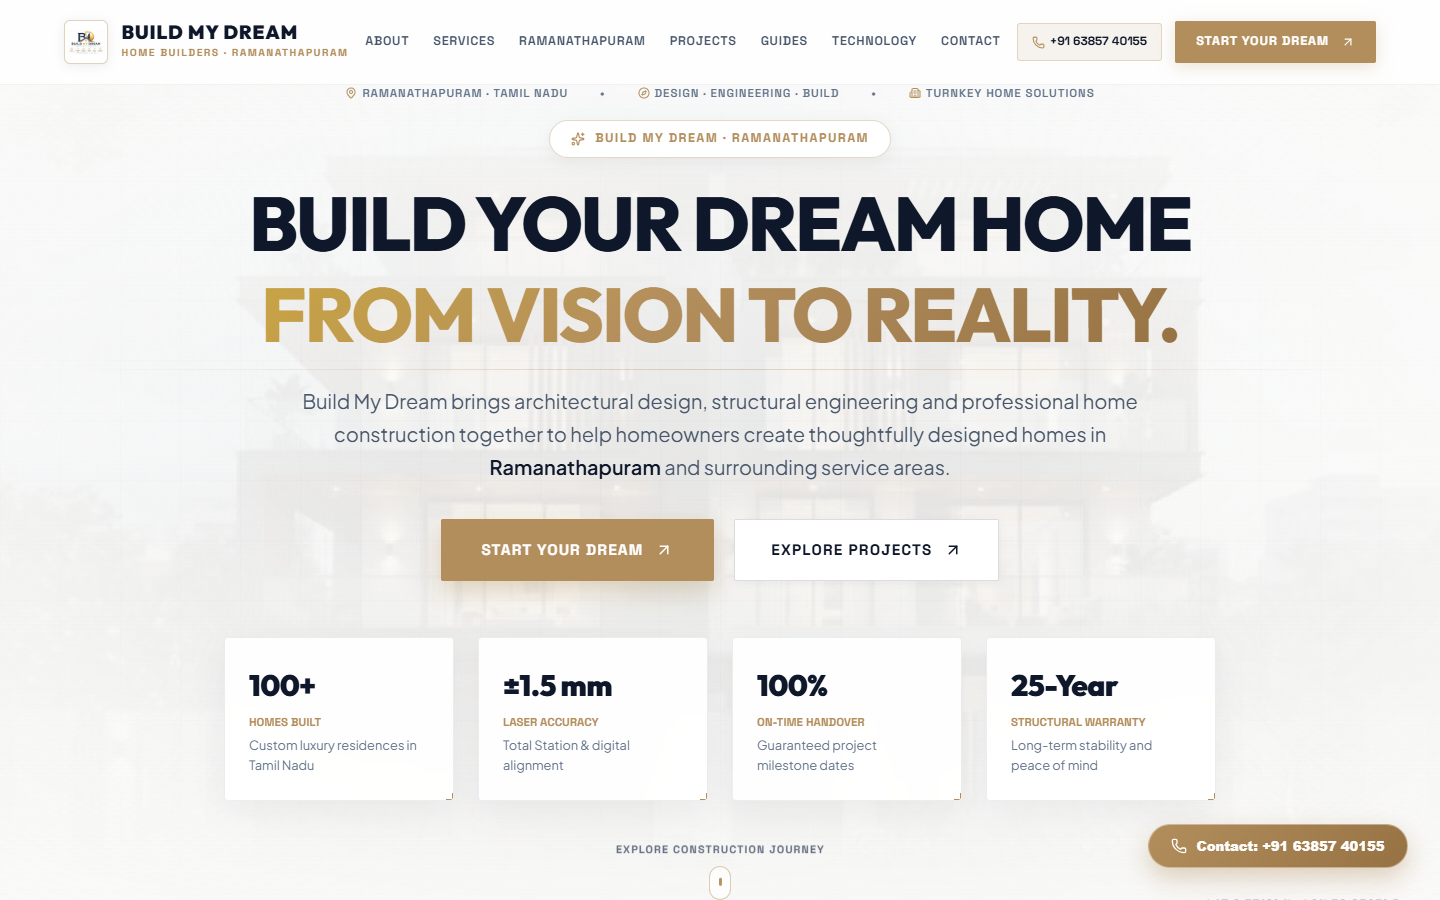
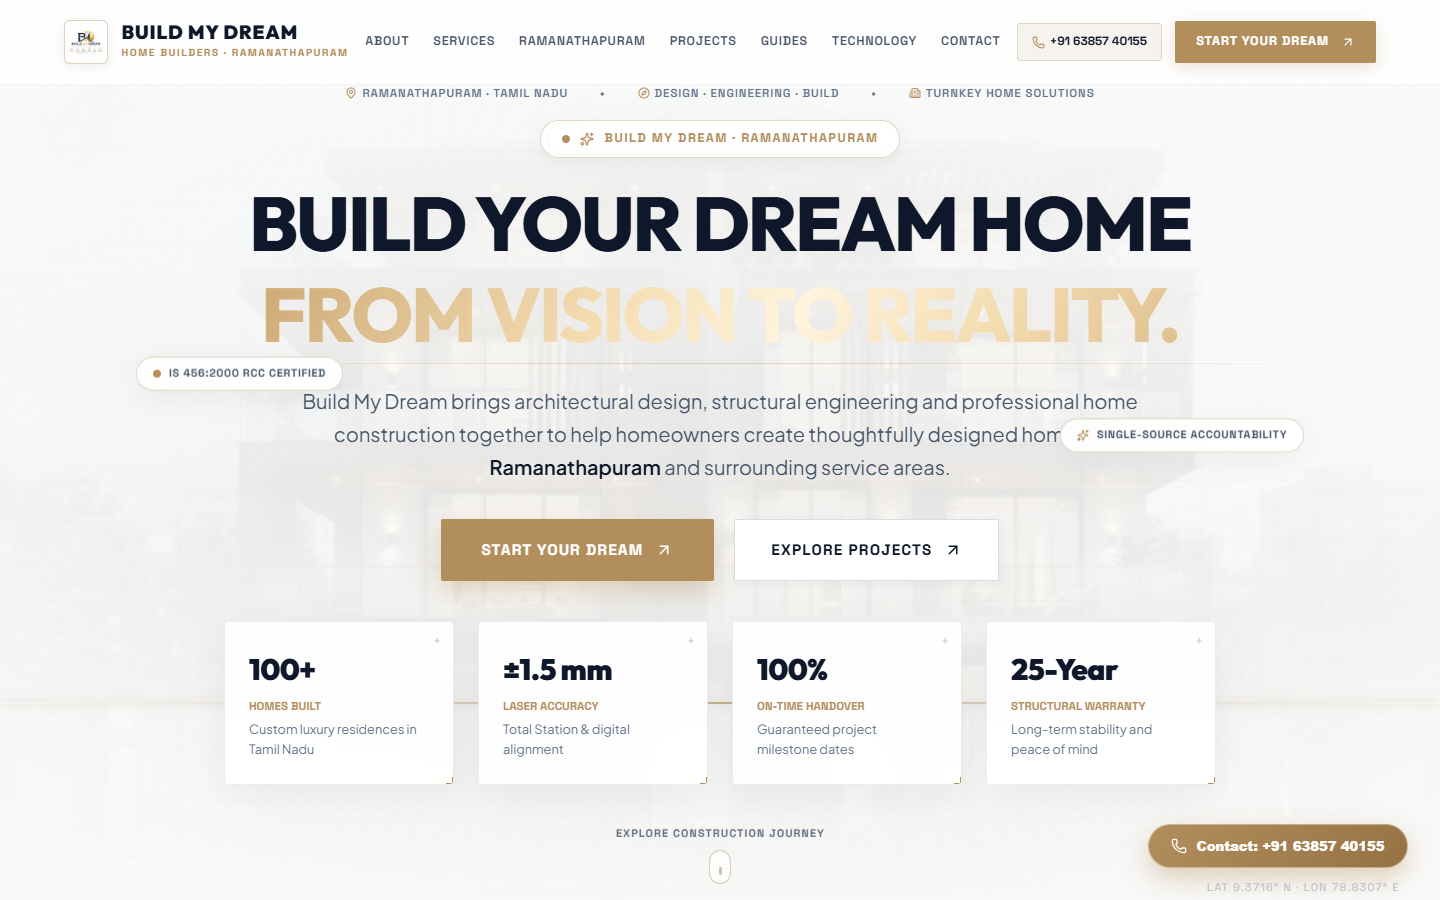
feat(hero): add active laser scanner, liquid gold luster, floating badges, and button sheen

diff --git a/src/components/hero/HeroCinematic.jsx b/src/components/hero/HeroCinematic.jsx
@@ -262,9 +262,13 @@ export function HeroCinematic() {
       }}
       className="bg-blueprint-grid"
     >
-      {/* Background Architectural Image with Silky Parallax */}
+      {/* Active Architectural LiDAR / Laser Scanning Beam */}
+      <div className="hero-laser-scanner" />
+
+      {/* Background Architectural Image with Silky Parallax & Ambient Drift */}
       <div
         ref={bgImageRef}
+        className="hero-bg-ambient"
         style={{
           position: 'absolute',
           inset: '-30px',
@@ -351,6 +355,59 @@ export function HeroCinematic() {
 
       {/* Main Hero Editorial Content */}
       <div className="container" style={{ position: 'relative', zIndex: 10, textAlign: 'center', maxWidth: '1120px' }}>
+        {/* Left Floating Architectural Badge (Desktop Only) */}
+        <div
+          className="desktop-only hero-floating-pill"
+          style={{
+            position: 'absolute',
+            left: '-3.5rem',
+            top: '30%',
+            background: 'rgba(255, 255, 255, 0.94)',
+            border: '1px solid rgba(179, 142, 93, 0.35)',
+            borderRadius: '24px',
+            padding: '0.45rem 1rem',
+            display: 'flex',
+            alignItems: 'center',
+            gap: '8px',
+            boxShadow: '0 8px 24px rgba(15, 23, 42, 0.05)',
+            pointerEvents: 'none',
+            zIndex: 8,
+            backdropFilter: 'blur(10px)'
+          }}
+        >
+          <div className="hero-beacon-dot" />
+          <span style={{ fontFamily: 'var(--font-mono)', fontSize: '0.68rem', color: '#475569', fontWeight: 700, letterSpacing: '0.06em' }}>
+            IS 456:2000 RCC CERTIFIED
+          </span>
+        </div>
+
+        {/* Right Floating Architectural Badge (Desktop Only) */}
+        <div
+          className="desktop-only hero-floating-pill"
+          style={{
+            position: 'absolute',
+            right: '-3.5rem',
+            top: '40%',
+            animationDelay: '-2.2s',
+            background: 'rgba(255, 255, 255, 0.94)',
+            border: '1px solid rgba(179, 142, 93, 0.35)',
+            borderRadius: '24px',
+            padding: '0.45rem 1rem',
+            display: 'flex',
+            alignItems: 'center',
+            gap: '8px',
+            boxShadow: '0 8px 24px rgba(15, 23, 42, 0.05)',
+            pointerEvents: 'none',
+            zIndex: 8,
+            backdropFilter: 'blur(10px)'
+          }}
+        >
+          <Sparkles size={12} className="text-gold" />
+          <span style={{ fontFamily: 'var(--font-mono)', fontSize: '0.68rem', color: '#475569', fontWeight: 700, letterSpacing: '0.06em' }}>
+            SINGLE-SOURCE ACCOUNTABILITY
+          </span>
+        </div>
+
         {/* Eyebrow Pill Badge */}
         <div
           ref={pillBadgeRef}
@@ -368,6 +425,7 @@ export function HeroCinematic() {
             willChange: 'transform, opacity'
           }}
         >
+          <div className="hero-beacon-dot" />
           <Sparkles size={14} className="text-gold" />
           <span style={{ fontFamily: 'var(--font-mono)', fontSize: '0.78rem', letterSpacing: '0.12em', color: 'var(--accent-gold)', textTransform: 'uppercase', fontWeight: 800 }}>
             BUILD MY DREAM · RAMANATHAPURAM
@@ -422,13 +480,13 @@ export function HeroCinematic() {
             gap: '1.25rem',
             justifyContent: 'center',
             flexWrap: 'wrap',
-            marginBottom: '3.5rem',
+            marginBottom: '2.5rem',
             willChange: 'transform, opacity'
           }}
         >
           <Link
             to="/contact"
-            className="btn-primary"
+            className="btn-primary btn-primary-sheen"
             style={{
               padding: '1.1rem 2.5rem',
               fontSize: '0.95rem',
@@ -472,8 +530,9 @@ export function HeroCinematic() {
           <div
             ref={(el) => (cardsRef.current[0] = el)}
             className="glass-card hud-border hero-metric-card"
-            style={{ padding: '1.5rem', borderRadius: '4px', background: 'rgba(255, 255, 255, 0.96)' }}
+            style={{ padding: '1.5rem', borderRadius: '4px', background: 'rgba(255, 255, 255, 0.96)', position: 'relative' }}
           >
+            <div style={{ position: 'absolute', top: '10px', right: '12px', fontFamily: 'var(--font-mono)', fontSize: '0.75rem', color: 'rgba(179, 142, 93, 0.4)', userSelect: 'none', fontWeight: 700 }}>+</div>
             <div
               ref={stat1Ref}
               style={{ fontFamily: 'var(--font-display)', fontSize: '1.85rem', fontWeight: 900, color: '#0F172A', letterSpacing: '-0.02em' }}
@@ -492,8 +551,9 @@ export function HeroCinematic() {
           <div
             ref={(el) => (cardsRef.current[1] = el)}
             className="glass-card hud-border hero-metric-card"
-            style={{ padding: '1.5rem', borderRadius: '4px', background: 'rgba(255, 255, 255, 0.96)' }}
+            style={{ padding: '1.5rem', borderRadius: '4px', background: 'rgba(255, 255, 255, 0.96)', position: 'relative' }}
           >
+            <div style={{ position: 'absolute', top: '10px', right: '12px', fontFamily: 'var(--font-mono)', fontSize: '0.75rem', color: 'rgba(179, 142, 93, 0.4)', userSelect: 'none', fontWeight: 700 }}>+</div>
             <div
               ref={stat2Ref}
               style={{ fontFamily: 'var(--font-display)', fontSize: '1.85rem', fontWeight: 900, color: '#0F172A', letterSpacing: '-0.02em' }}
@@ -512,8 +572,9 @@ export function HeroCinematic() {
           <div
             ref={(el) => (cardsRef.current[2] = el)}
             className="glass-card hud-border hero-metric-card"
-            style={{ padding: '1.5rem', borderRadius: '4px', background: 'rgba(255, 255, 255, 0.96)' }}
+            style={{ padding: '1.5rem', borderRadius: '4px', background: 'rgba(255, 255, 255, 0.96)', position: 'relative' }}
           >
+            <div style={{ position: 'absolute', top: '10px', right: '12px', fontFamily: 'var(--font-mono)', fontSize: '0.75rem', color: 'rgba(179, 142, 93, 0.4)', userSelect: 'none', fontWeight: 700 }}>+</div>
             <div
               ref={stat3Ref}
               style={{ fontFamily: 'var(--font-display)', fontSize: '1.85rem', fontWeight: 900, color: '#0F172A', letterSpacing: '-0.02em' }}
@@ -532,8 +593,9 @@ export function HeroCinematic() {
           <div
             ref={(el) => (cardsRef.current[3] = el)}
             className="glass-card hud-border hero-metric-card"
-            style={{ padding: '1.5rem', borderRadius: '4px', background: 'rgba(255, 255, 255, 0.96)' }}
+            style={{ padding: '1.5rem', borderRadius: '4px', background: 'rgba(255, 255, 255, 0.96)', position: 'relative' }}
           >
+            <div style={{ position: 'absolute', top: '10px', right: '12px', fontFamily: 'var(--font-mono)', fontSize: '0.75rem', color: 'rgba(179, 142, 93, 0.4)', userSelect: 'none', fontWeight: 700 }}>+</div>
             <div
               ref={stat4Ref}
               style={{ fontFamily: 'var(--font-display)', fontSize: '1.85rem', fontWeight: 900, color: '#0F172A', letterSpacing: '-0.02em' }}

diff --git a/src/styles/index.css b/src/styles/index.css
@@ -361,18 +361,129 @@ h1, h2, h3, h4, h5, h6 {
 
 /* Subtle architectural gradient text sheen */
 .hero-gold-gradient {
-  background: linear-gradient(135deg, #A8834F 0%, #D4AF37 35%, #B38E5D 70%, #967243 100%);
-  background-size: 200% auto;
+  background: linear-gradient(
+    120deg,
+    #9C743D 0%,
+    #C8A36E 20%,
+    #F5DEB3 38%,
+    #FFF4DE 46%,
+    #F5DEB3 54%,
+    #C8A36E 72%,
+    #9C743D 100%
+  );
+  background-size: 250% 100%;
   -webkit-background-clip: text;
   background-clip: text;
   -webkit-text-fill-color: transparent;
-  animation: heroGoldShimmer 8s ease infinite;
+  animation: heroGoldLuster 5s ease-in-out infinite;
 }
 
-@keyframes heroGoldShimmer {
-  0% { background-position: 0% 50%; }
-  50% { background-position: 100% 50%; }
-  100% { background-position: 0% 50%; }
+@keyframes heroGoldLuster {
+  0% { background-position: 100% 0; }
+  50% { background-position: 0% 0; }
+  100% { background-position: 100% 0; }
+}
+
+/* Ambient Cinematic Background Drift */
+.hero-bg-ambient {
+  animation: heroBgDrift 22s ease-in-out infinite;
+  will-change: transform;
+}
+
+@keyframes heroBgDrift {
+  0% { transform: scale(1.02) translate3d(0, 0, 0); }
+  50% { transform: scale(1.06) translate3d(-8px, -5px, 0); }
+  100% { transform: scale(1.02) translate3d(0, 0, 0); }
+}
+
+/* Active Architectural LiDAR / Laser Scanning Beam */
+.hero-laser-scanner {
+  position: absolute;
+  left: 0;
+  right: 0;
+  height: 2px;
+  background: linear-gradient(
+    90deg,
+    transparent 0%,
+    rgba(179, 142, 93, 0.15) 15%,
+    rgba(179, 142, 93, 0.75) 50%,
+    rgba(179, 142, 93, 0.15) 85%,
+    transparent 100%
+  );
+  box-shadow: 0 0 12px rgba(179, 142, 93, 0.45);
+  pointer-events: none;
+  z-index: 3;
+  animation: laserScanDown 7s cubic-bezier(0.4, 0, 0.2, 1) infinite;
+}
+
+@keyframes laserScanDown {
+  0% { top: 5%; opacity: 0; }
+  12% { opacity: 0.9; }
+  88% { opacity: 0.9; }
+  100% { top: 92%; opacity: 0; }
+}
+
+/* Glowing Pulsing Beacon */
+.hero-beacon-dot {
+  width: 8px;
+  height: 8px;
+  background-color: var(--accent-gold);
+  border-radius: 50%;
+  position: relative;
+  display: inline-block;
+}
+
+.hero-beacon-dot::after {
+  content: '';
+  position: absolute;
+  inset: -4px;
+  border-radius: 50%;
+  border: 1.5px solid var(--accent-gold);
+  animation: beaconWave 2.4s cubic-bezier(0.16, 1, 0.3, 1) infinite;
+}
+
+@keyframes beaconWave {
+  0% { transform: scale(0.6); opacity: 1; }
+  100% { transform: scale(2.4); opacity: 0; }
+}
+
+/* Automated Sweeping Sheen for Primary CTA */
+.btn-primary-sheen {
+  position: relative;
+  overflow: hidden;
+}
+
+.btn-primary-sheen::after {
+  content: '';
+  position: absolute;
+  top: -50%;
+  left: -70%;
+  width: 50%;
+  height: 200%;
+  background: linear-gradient(
+    90deg,
+    transparent,
+    rgba(255, 255, 255, 0.45),
+    transparent
+  );
+  transform: rotate(25deg);
+  animation: btnSheenSweep 3.8s ease-in-out infinite;
+}
+
+@keyframes btnSheenSweep {
+  0%, 35% { left: -70%; }
+  75%, 100% { left: 150%; }
+}
+
+/* Floating Architectural Tech Pill with Ambient Float */
+.hero-floating-pill {
+  animation: floatSubtle 4.5s ease-in-out infinite alternate;
+  will-change: transform;
+}
+
+@keyframes floatSubtle {
+  0% { transform: translateY(0px); }
+  100% { transform: translateY(-8px); }
 }
 
 /* Luxury Metric Card Hover Motion */
